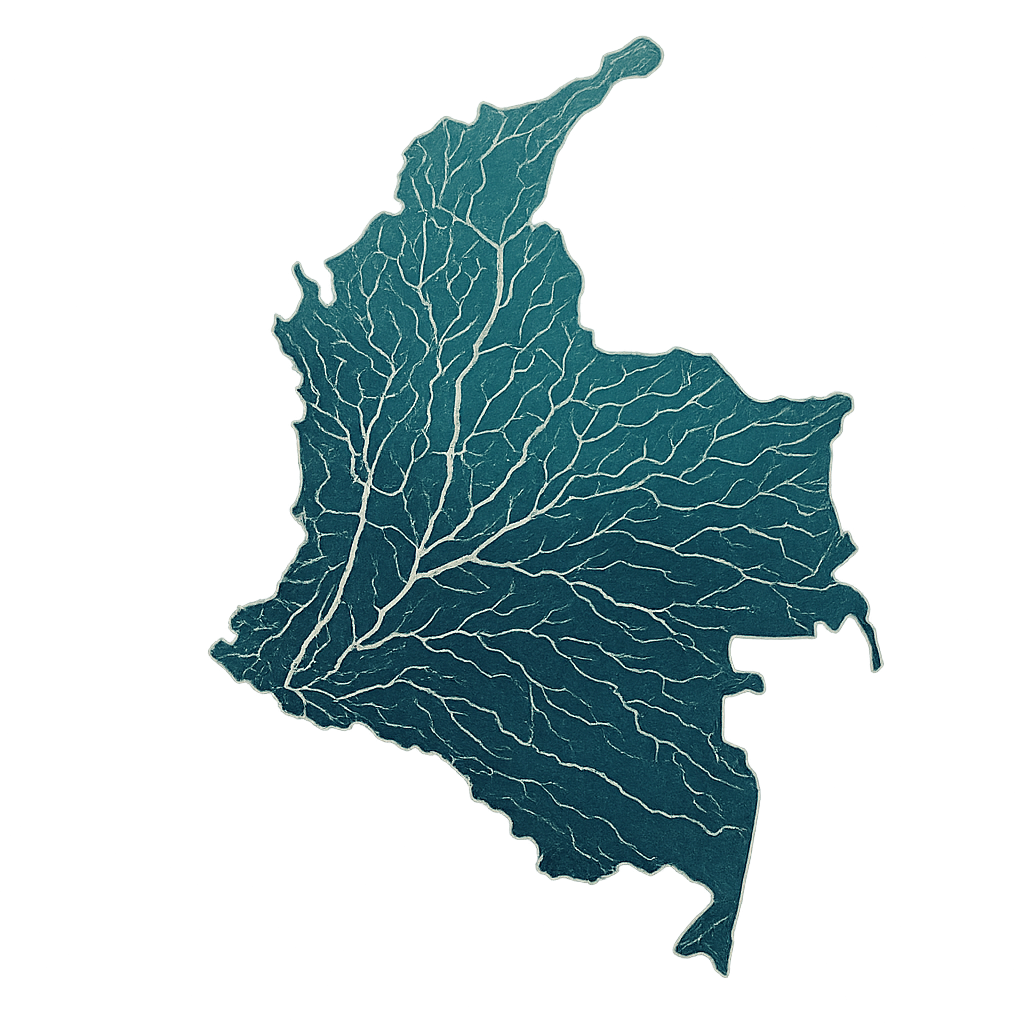
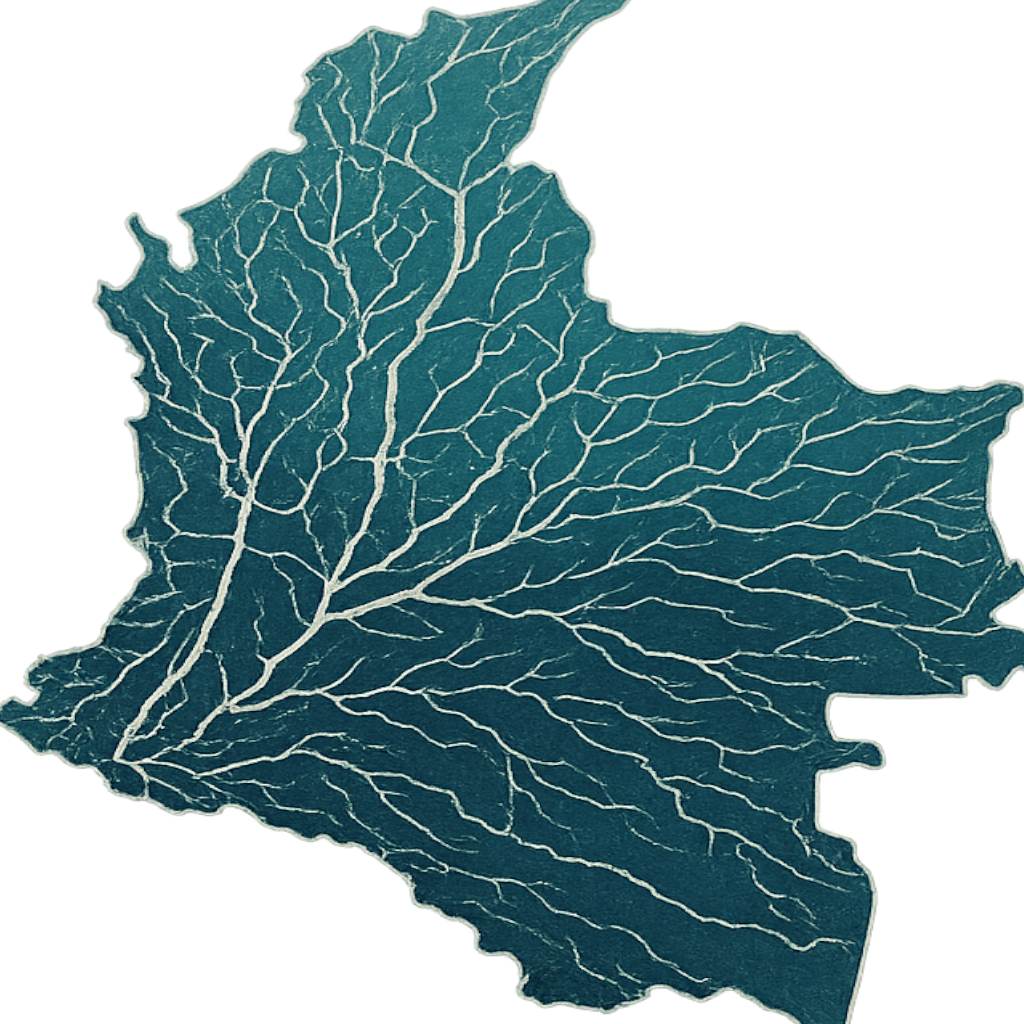
add credits, change background home

diff --git a/src/components/WaterBackground.css b/src/components/WaterBackground.css
@@ -13,21 +13,25 @@
   z-index: 5;
   overflow: hidden;
   pointer-events: none;
+  transform: scaleX(1.2);
+  transform-origin: center;
 }
 
 .bg {
   display: block;
   position: fixed;
   top: 0;
-  left: 0;
+  left: 50%;
+  transform: translateX(-50%) scaleX(1.4);
   width: 100vw;
   height: 100vh;
-  background-image: url('/fondo_agua.png');
-  background-size: cover; 
+  background-image: url('/fondo_agua5.png');
+  background-size: 150% auto;
   background-position: center;
   background-repeat: no-repeat;
   opacity: 0.2;
   z-index: -1;
+  transform-origin: center;
 }
 
 .surface {
